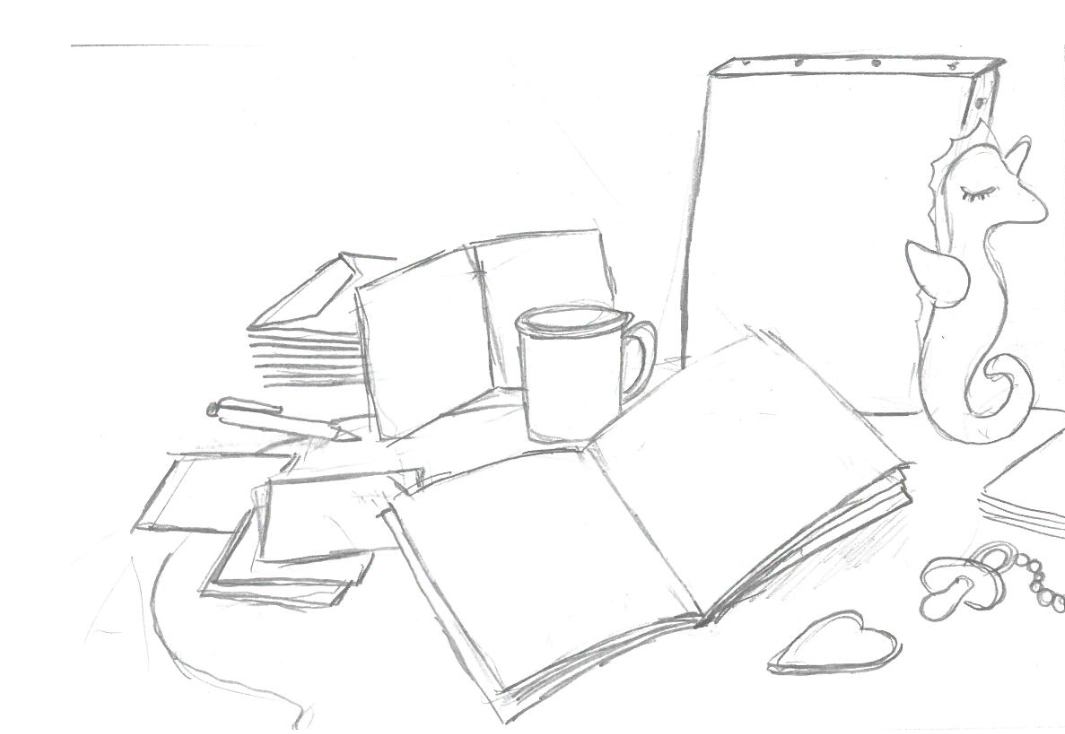
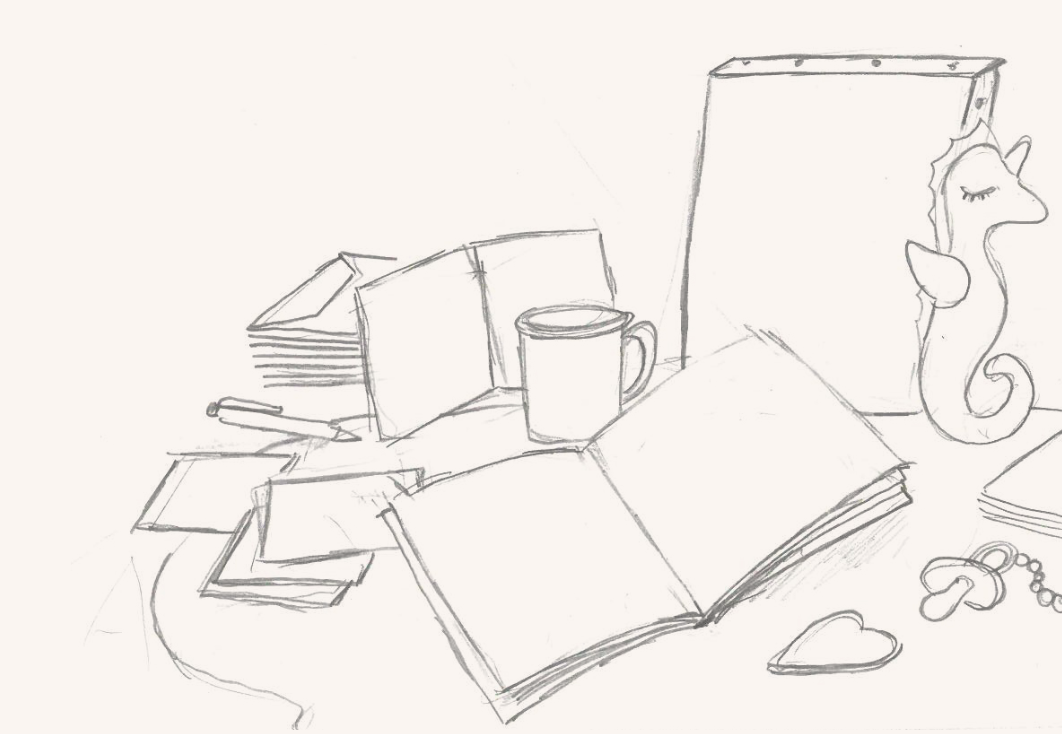
jumbo picture change

diff --git a/index.html b/index.html
@@ -131,7 +131,7 @@
             </div>
             <div class="col-sm-8 col-md-6 pencil-drawing">
                 <div class="jumbo-image-wrapper">
-                    <img src="images/jumbo-pencil-small-color.png" id="jumbo-pencil" />
+                    <img src="images/jumbo-pencil-small.png" id="jumbo-pencil" />
                 </div>
 
             </div>
